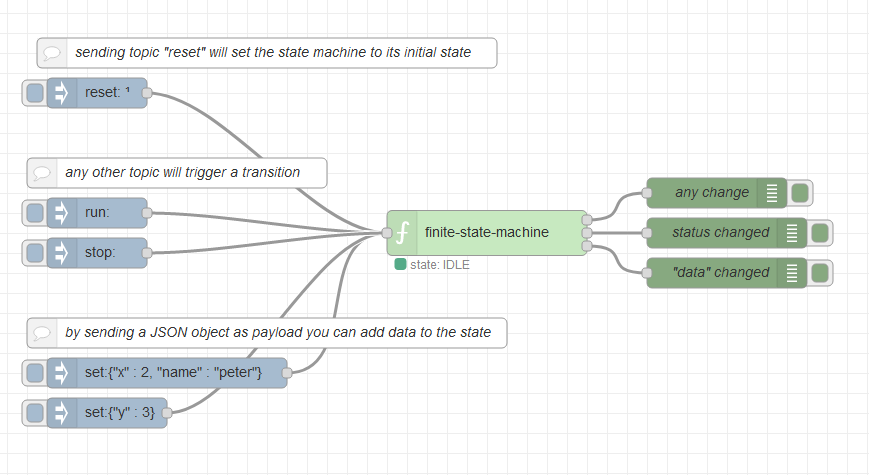
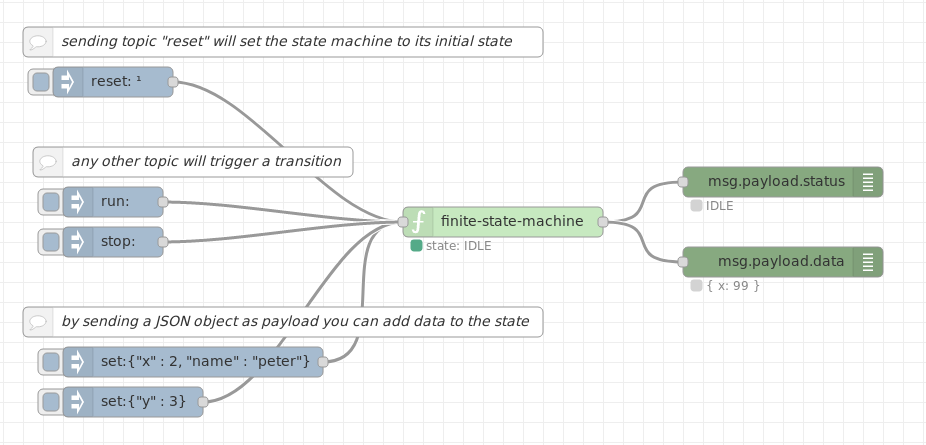
intermediate update

Changed region(s): [[0.0, 0.2921, 0.9632, 0.964], [0.0311, 0.0584, 0.5903, 0.2921], [0.0, 0.7011, 0.0311, 0.7303]]

diff --git a/README.md b/README.md
@@ -1,7 +1,4 @@
  xxx ToDos v1
-- Schritt 1: Doku Inputs und Outputs zuerst machen
-- Beispiele: Zuerst in Node-RED, dann hier die Doku der Beispiele
--- Beispiel mit rbe-Nodes in eigenem Abschnitt anstatt section "Output behaviour"
 - Alle Screenshots neu machen (wg. 1 Ausgang) und alte Images löschen
 - Alle Exports neu machen
 
@@ -24,16 +21,16 @@ Fig. 1: Node appearance
 2. [Usage](#usage)
     2.1 [Node configuration](#node_conifguration)
     2.1.1 [Basic FSM structure](#basic_fsm_structure)
-    2.1.2 [Optional *data* object](#optional_data_object)
+    2.1.2 [Optional data object](#optional_data_object)
     2.2 [Input](#input)
     2.3 [Output](#output)
-    2.4 [Handling of the *data* object](#handling_of_the_data_object)
+    2.4 [Handling of the data object](#handling_of_the_data_object)
     2.5 [Further information](#further_information)
 3. [Example flows](#example_flows)
 	3.1 [Minimal state machine](#minimal_state_machine)
 	3.2 [Simple state machine with data object](#simple_state_machine_with_data_object)
 	3.3 [State machine with feedback](#state_machine_with_feedback)
-	3.4 [Changing the *data* object](#changing_the_data_object)
+	3.4 [Changing the data object](#changing_the_data_object)
 4. [Development](#development)
 5. [Hints for upgrading from earlier versions](#hints_for_upgrading)
 
@@ -74,18 +71,18 @@ The statemachine of `finite state machine` is defined by a JSON object within th
 
 ```json
 {
-    "state": {
-        "status": "IDLE"
+  "state": {
+    "status": "IDLE"
+  },
+  "transitions": {
+    "IDLE": {
+      "run": "RUNNING"
     },
-    "transitions": {
-        "IDLE": {
-            "run": "RUNNING"
-        },
-        "RUNNING": {
-            "stop": "IDLE",
-            "set": "RUNNING"
-        }
+    "RUNNING": {
+      "stop": "IDLE",
+      "set": "RUNNING"
     }
+  }
 }
 ``` 
 Fig. 3: Basic FSM structure definition (only with transitions)
@@ -100,24 +97,24 @@ Fig. 4 shows *data* definition portions within the *state* object and in transit
 
 ```json
 "state": {
-    "status": "IDLE",
-    "data": {
-        "x": 99
-    }
+  "status": "IDLE",
+  "data": {
+    "x": 99
+  }
 }
 ```
 
 ```json
 "transitions": {
-    "RUNNING": {
-        "stop": {
-            "status": "IDLE",
-            "data": {
-                "x": 0
-            }
-        },
-        "set": "RUNNING"
-    }
+  "RUNNING": {
+    "stop": {
+      "status": "IDLE",
+      "data": {
+        "x": 0
+      }
+    },
+    "set": "RUNNING"
+  }
 }
 ```
 Fig. 4: *data* object portions
@@ -171,23 +168,23 @@ There is only one `msg.topic` ("toggleState") which toggles between the two stat
 
 ```json
 {
-   "state": {
-     "status": "IDLE"
-   },
-   "transitions": {
-     "IDLE": {
-       "toggleState": "RUNNING"
-     },
-     "RUNNING": {
-       "toggleState": "IDLE"
-     }
+  "state": {
+    "status": "IDLE"
+  },
+  "transitions": {
+    "IDLE": {
+      "toggleState": "RUNNING"
+    },
+    "RUNNING": {
+      "toggleState": "IDLE"
+    }
   }
 }
 ```
 Fig. 5: Minimal state machine JSON object
 
 
-![flow-simple](images/flow-minimal.png)
+![flow-minimal](images/flow-minimal.png)
 Fig. 6: Minimal state machine
 
 
@@ -206,36 +203,45 @@ Set finite state machine definiton to:
 {
   "state": {
     "status": "IDLE",
-    "data" : { "x": 5 }
+    "data": {
+      "x": 99
+    }
   },
   "transitions": {
     "IDLE": {
-      "run": "RUNNING"
+      "run": {
+        "status": "RUNNING",
+        "data": {
+          "x": 42
+        }
+      }
     },
     "RUNNING": {
-      "stop": "IDLE",
+      "stop": {
+        "status": "IDLE",
+        "data": {
+          "x": 0
+        }
+      },
       "set": "RUNNING"
     }
   }
 }
 ```
-Fig. xxx: Simple state machine JSON object
+Fig. 8: Simple state machine JSON object
 
 #### State description
-This example gives a state machine with two states (IDLE, RUNNING) and three transitions. Two of them (*run*, *stop*) change between the two states, the third (*set*) is used only to change the *data* object contents in the state RUNNING.
+This example gives a state machine with two states (IDLE, RUNNING) and three transitions. Two of them (*run*, *stop*) change between the two states, the third (*set*) is used only to externally change the *data* object contents in the state RUNNING via an input `msg` with an appropriate `msg.topic` = "set".
 
-#### Output behaviour
-The difference between the outputs *"any change"* and *"status changed"* can be seen in *state* "RUNNING": In case of a `msg` with`msg.topic`= "set" the output *"any change"* sends a `msg`, output *"status changed"* does not send a `msg`.
-The output *"data changed"* can only send a `msg` in the state "RUNNING" via the lower two inject nodes: They are able to change the value of the "data" variables and therefore output a `msg` to the outputs *"any change"* and *"data changed"* (but not at output *"status changed"*).
 
-![flow](images/flow.png)
-Fig. xxx: Simple state machine
+![flow-simple](images/flow.png)
+Fig. 9: Simple state machine
 
 
 ```json
-[{"id":"378a3460.e755fc","type":"tab","label":"Simple state machine with data object","disabled":false,"info":""},{"id":"67adcdd8.8b41d4","type":"finite-state-machine","z":"378a3460.e755fc","name":"","fsmDefinition":"{\"state\":{\"status\":\"IDLE\",\"data\":{\"x\":5}},\"transitions\":{\"IDLE\":{\"run\":\"RUNNING\"},\"RUNNING\":{\"stop\":\"IDLE\",\"set\":\"RUNNING\"}}}","sendInitialState":false,"showTransitionErrors":true,"x":600,"y":260,"wires":[["1a35a82.2e59ad8"],["324d3672.55ac32"],["b85f26d6.b8f418"]]},{"id":"1a35a82.2e59ad8","type":"debug","z":"378a3460.e755fc","name":"any change","active":true,"tosidebar":true,"console":false,"tostatus":false,"complete":"payload","targetType":"msg","x":830,"y":220,"wires":[]},{"id":"c882ea0f.8236e","type":"inject","z":"378a3460.e755fc","name":"","topic":"reset","payload":"","payloadType":"str","repeat":"","crontab":"","once":true,"onceDelay":0.1,"x":210,"y":120,"wires":[["67adcdd8.8b41d4"]]},{"id":"4117af3.0c6505","type":"comment","z":"378a3460.e755fc","name":"sending topic \"reset\" will set the state machine to its initial state","info":"","x":380,"y":80,"wires":[]},{"id":"324d3672.55ac32","type":"debug","z":"378a3460.e755fc","name":"status change","active":true,"tosidebar":true,"console":false,"tostatus":false,"complete":"payload","targetType":"msg","x":840,"y":260,"wires":[]},{"id":"b85f26d6.b8f418","type":"debug","z":"378a3460.e755fc","name":"\"data\" change","active":true,"tosidebar":true,"console":false,"tostatus":false,"complete":"payload","targetType":"msg","x":840,"y":300,"wires":[]},{"id":"976ee3eb.97e4f","type":"inject","z":"378a3460.e755fc","name":"","topic":"run","payload":"","payloadType":"str","repeat":"","crontab":"","once":false,"onceDelay":0.1,"x":210,"y":240,"wires":[["67adcdd8.8b41d4"]]},{"id":"7ae46f5b.127bc8","type":"inject","z":"378a3460.e755fc","name":"","topic":"set","payload":"{\"x\" : 2, \"name\" : \"peter\"}","payloadType":"json","repeat":"","crontab":"","once":false,"onceDelay":0.1,"x":280,"y":400,"wires":[["67adcdd8.8b41d4"]]},{"id":"4fa32a8f.24719c","type":"inject","z":"378a3460.e755fc","name":"","topic":"set","payload":"{\"y\" : 3}","payloadType":"json","repeat":"","crontab":"","once":false,"onceDelay":0.1,"x":230,"y":440,"wires":[["67adcdd8.8b41d4"]]},{"id":"1622d35c.3a4f1d","type":"comment","z":"378a3460.e755fc","name":"any other topic will trigger a transition","info":"","x":290,"y":200,"wires":[]},{"id":"1196d485.ba7693","type":"inject","z":"378a3460.e755fc","name":"","topic":"stop","payload":"","payloadType":"str","repeat":"","crontab":"","once":false,"onceDelay":0.1,"x":210,"y":280,"wires":[["67adcdd8.8b41d4"]]},{"id":"1e02858b.9b841a","type":"comment","z":"378a3460.e755fc","name":"by sending a JSON object as payload you can add data to the state","info":"","x":380,"y":360,"wires":[]}]
+[{"id":"70d12b2e.625c9c","type":"tab","label":"Simple state machine with data object","disabled":false,"info":""},{"id":"a0edf135.e14588","type":"finite-state-machine","z":"70d12b2e.625c9c","name":"","fsmDefinition":"{\"state\":{\"status\":\"IDLE\",\"data\":{\"x\":99}},\"transitions\":{\"IDLE\":{\"run\":{\"status\":\"RUNNING\",\"data\":{\"x\":42}}},\"RUNNING\":{\"stop\":{\"status\":\"IDLE\",\"data\":{\"x\":0}},\"set\":\"RUNNING\"}}}","sendInitialState":false,"showTransitionErrors":true,"x":600,"y":260,"wires":[["cb19a198.11647","b1877454.ee2168"]]},{"id":"9befd239.ea94b","type":"inject","z":"70d12b2e.625c9c","name":"","topic":"reset","payload":"","payloadType":"str","repeat":"","crontab":"","once":true,"onceDelay":0.1,"x":210,"y":120,"wires":[["a0edf135.e14588"]]},{"id":"456671ae.4a071","type":"comment","z":"70d12b2e.625c9c","name":"sending topic \"reset\" will set the state machine to its initial state","info":"","x":380,"y":80,"wires":[]},{"id":"bcc44c08.7c6d08","type":"inject","z":"70d12b2e.625c9c","name":"","topic":"run","payload":"","payloadType":"str","repeat":"","crontab":"","once":false,"onceDelay":0.1,"x":210,"y":240,"wires":[["a0edf135.e14588"]]},{"id":"201e40f8.865b2","type":"inject","z":"70d12b2e.625c9c","name":"","topic":"set","payload":"{\"x\" : 2, \"name\" : \"peter\"}","payloadType":"json","repeat":"","crontab":"","once":false,"onceDelay":0.1,"x":290,"y":400,"wires":[["a0edf135.e14588"]]},{"id":"61fd9c83.dd95fc","type":"inject","z":"70d12b2e.625c9c","name":"","topic":"set","payload":"{\"y\" : 3}","payloadType":"json","repeat":"","crontab":"","once":false,"onceDelay":0.1,"x":230,"y":440,"wires":[["a0edf135.e14588"]]},{"id":"c6add2b4.c41ee","type":"comment","z":"70d12b2e.625c9c","name":"any other topic will trigger a transition","info":"","x":290,"y":200,"wires":[]},{"id":"a4c93b9f.44d3f","type":"inject","z":"70d12b2e.625c9c","name":"","topic":"stop","payload":"","payloadType":"str","repeat":"","crontab":"","once":false,"onceDelay":0.1,"x":210,"y":280,"wires":[["a0edf135.e14588"]]},{"id":"3b5f9a43.cdf68e","type":"comment","z":"70d12b2e.625c9c","name":"by sending a JSON object as payload you can add data to the state","info":"","x":380,"y":360,"wires":[]},{"id":"cb19a198.11647","type":"debug","z":"70d12b2e.625c9c","name":"","active":true,"tosidebar":false,"console":false,"tostatus":true,"complete":"payload.status","targetType":"msg","x":880,"y":220,"wires":[]},{"id":"b1877454.ee2168","type":"debug","z":"70d12b2e.625c9c","name":"","active":true,"tosidebar":false,"console":false,"tostatus":true,"complete":"payload.data","targetType":"msg","x":880,"y":300,"wires":[]}]
 ```
-Fig. xxx: Simple state machine flow
+Fig. 10: Simple state machine flow
 
 
 <a name="state_machine_with_feedback"></a>
@@ -258,32 +264,33 @@ Set finite state machine definiton to:
   }
 }
 ```
-Fig. xxx: State machine with feedback JSON object
+Fig. 11: State machine with feedback JSON object
 
 This example gives a self-stopping behaviour after a defined amount of time: Transition *run* triggers the state machine to *state* RUNNING, the feedback loop activates the transition *stop* after a delay of 5 seconds so that the state machine changes back to *state* IDLE.
 
-![](images/flow-feedback.png)
-Fig. xxx: State machine with feedback
+![flow-with-feeback](images/flow-feedback.png)
+Fig. 12: State machine with feedback
 
 
 ```json
-[{"id":"e7cbb08b.ea53","type":"tab","label":"State machine with feedback flow","disabled":false,"info":""},{"id":"b4a9f9f7.51a2a8","type":"finite-state-machine","z":"e7cbb08b.ea53","name":"","fsmDefinition":"{\"state\":{\"status\":\"IDLE\",\"data\":{\"x\":5}},\"transitions\":{\"IDLE\":{\"run\":\"RUNNING\"},\"RUNNING\":{\"stop\":\"IDLE\",\"set\":\"RUNNING\"}}}","sendInitialState":false,"showTransitionErrors":true,"x":480,"y":160,"wires":[["d6bb83dc.a1bad8"],[],[]]},{"id":"8c71a3b6.8311d","type":"inject","z":"e7cbb08b.ea53","name":"","topic":"run","payload":"","payloadType":"str","repeat":"","crontab":"","once":false,"onceDelay":0.1,"x":270,"y":160,"wires":[["b4a9f9f7.51a2a8"]]},{"id":"d6bb83dc.a1bad8","type":"switch","z":"e7cbb08b.ea53","name":"onRUNNING","property":"payload.status","propertyType":"msg","rules":[{"t":"eq","v":"RUNNING","vt":"str"}],"checkall":"true","repair":false,"outputs":1,"x":690,"y":140,"wires":[["d3e923f3.8d2478"]]},{"id":"d3e923f3.8d2478","type":"delay","z":"e7cbb08b.ea53","name":"delay 5s","pauseType":"delay","timeout":"5","timeoutUnits":"seconds","rate":"1","nbRateUnits":"1","rateUnits":"second","randomFirst":"1","randomLast":"5","randomUnits":"seconds","drop":false,"x":760,"y":300,"wires":[["d1f104bf.095cf8"]]},{"id":"d1f104bf.095cf8","type":"change","z":"e7cbb08b.ea53","name":"set msg.topic to stop","rules":[{"t":"set","p":"topic","pt":"msg","to":"stop","tot":"str"}],"action":"","property":"","from":"","to":"","reg":false,"x":220,"y":200,"wires":[["b4a9f9f7.51a2a8"]]},{"id":"d90fb97c.0299d8","type":"comment","z":"e7cbb08b.ea53","name":"sending topic \"run\" will trigger the machine which is stopped 5 seconds later","info":"","x":390,"y":100,"wires":[]}]
+[{"id":"854a9f95.2f9f7","type":"tab","label":"State machine with feedback flow","disabled":false,"info":""},{"id":"47aa9b50.b6825c","type":"finite-state-machine","z":"854a9f95.2f9f7","name":"","fsmDefinition":"{\"state\":{\"status\":\"IDLE\",\"data\":{\"x\":5}},\"transitions\":{\"IDLE\":{\"run\":\"RUNNING\"},\"RUNNING\":{\"stop\":\"IDLE\",\"set\":\"RUNNING\"}}}","sendInitialState":false,"showTransitionErrors":true,"x":480,"y":160,"wires":[["a8262434.cf7498"]]},{"id":"87fbee09.255fe8","type":"inject","z":"854a9f95.2f9f7","name":"","topic":"run","payload":"","payloadType":"str","repeat":"","crontab":"","once":false,"onceDelay":0.1,"x":270,"y":160,"wires":[["47aa9b50.b6825c"]]},{"id":"a8262434.cf7498","type":"switch","z":"854a9f95.2f9f7","name":"onRUNNING","property":"payload.status","propertyType":"msg","rules":[{"t":"eq","v":"RUNNING","vt":"str"}],"checkall":"true","repair":false,"outputs":1,"x":690,"y":140,"wires":[["1bb1822b.773f76"]]},{"id":"1bb1822b.773f76","type":"delay","z":"854a9f95.2f9f7","name":"delay 5s","pauseType":"delay","timeout":"5","timeoutUnits":"seconds","rate":"1","nbRateUnits":"1","rateUnits":"second","randomFirst":"1","randomLast":"5","randomUnits":"seconds","drop":false,"x":760,"y":300,"wires":[["983f9b74.7bcbd8"]]},{"id":"983f9b74.7bcbd8","type":"change","z":"854a9f95.2f9f7","name":"set msg.topic to stop","rules":[{"t":"set","p":"topic","pt":"msg","to":"stop","tot":"str"}],"action":"","property":"","from":"","to":"","reg":false,"x":220,"y":200,"wires":[["47aa9b50.b6825c"]]},{"id":"a0a931fb.60bc4","type":"comment","z":"854a9f95.2f9f7","name":"sending topic \"run\" will trigger the machine which is stopped 5 seconds later","info":"","x":390,"y":100,"wires":[]}]
 ```
-Fig. xxx: State machine with feedback flow
+Fig. 13: State machine with feedback flow
 
 
 
 <a name="changing_the_data_object"></a>
 ### Changing the "data" object
 
-# xxx möglicherweise hier gar nicht mehr notwenig
+During a valid transition the *data* object can be changed or extended via the nodes input (externally) or changed via the node transition definition (internally).
 
-The *data* object can only be changed or extended during a valid transition. I.e. the JSON object contents sent in a `msg` containing no valid transition within the `msg.topic` does not lead to any *data* object changes.
+Sending a `msg` containing no valid transition within the `msg.topic` cannot lead to any *data* object changes.
 
-Therefore see example "State machine with feedback flow" above: To be able to change the *data* object in the *state* RUNNING, the transition *run* is defined: This transition does not change the *state* but may change the *data* object within *state* RUNNING like the two lower injections do.
+Therefore see example "Simple state machine with data object" above: To be able to change the *data* object externally in the *state* RUNNING, the transition *set* is defined: This (valid) transition does not change the *state* but may change the *data* object within *state* RUNNING like the two lower injections do.
 In the example the definition of the upper set injection is like follows:
 
 ![change-data-object](images/change-data-object.png)
+Fig. 14: Properties of a `msg`with a JSON *data* object
 
 As can seen this changes the present "data" object element "x" to a numerical value of '2' and adds an additional "data" object element "name" with the string "peter".
 
